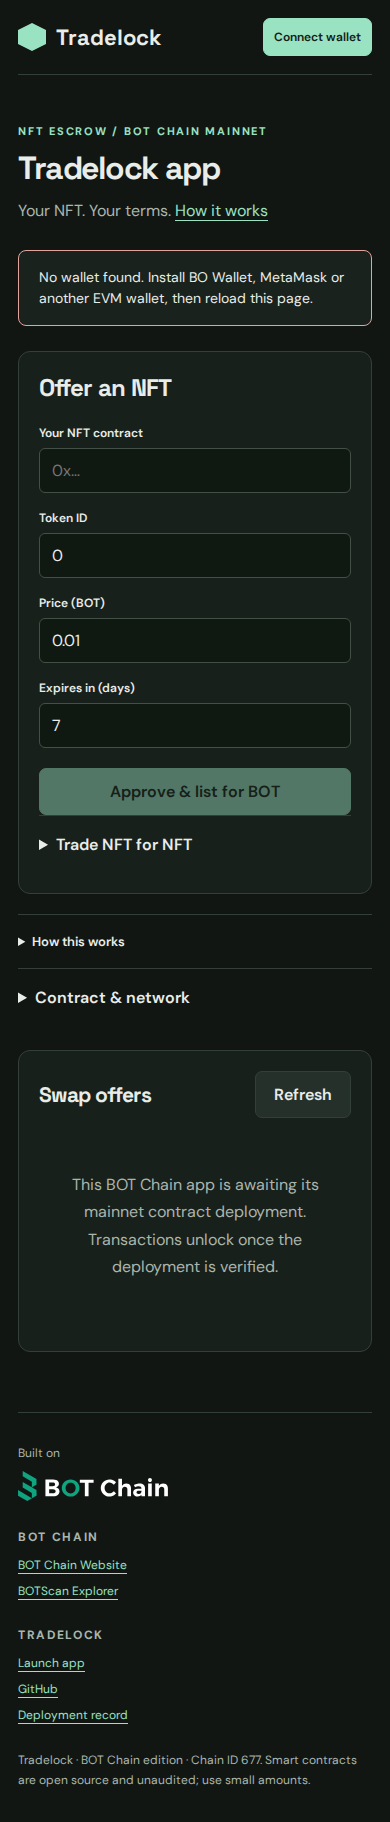
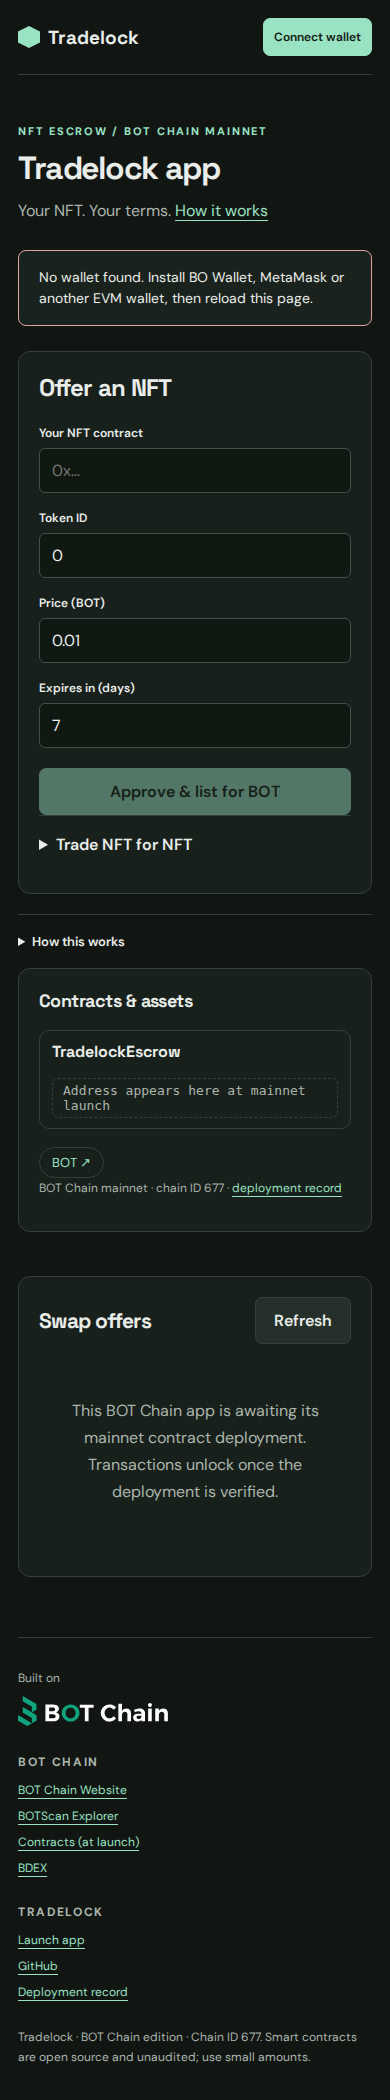
Move sites to Vercel; BOT Chain branding and linked contracts

diff --git a/web/landing.html b/web/landing.html
@@ -1,1 +1,1 @@
-<!doctype html><html lang="en"><head><meta charset="UTF-8"><meta name="viewport" content="width=device-width,initial-scale=1"><meta name="theme-color" content="#111613"><title>__NAME__ · BOT Chain</title><meta name="description" content="__DESCRIPTION__"><meta property="og:title" content="__NAME__ · BOT Chain"><meta property="og:description" content="__DESCRIPTION__"><meta property="og:type" content="website"><meta name="twitter:card" content="summary"><link rel="icon" href="/icon.svg" type="image/svg+xml"><link rel="stylesheet" href="/style.css"></head><body><a class="skip" href="#main">Skip to content</a><div class="shell"><header><a class="brand" href="/"><span class="mark" aria-hidden="true"></span>__NAME__</a><nav class="site-nav" aria-label="Page"><a href="#how">How it works</a><a href="#features">Features</a><a href="#faq">FAQ</a><a href="__REPO_URL__" target="_blank" rel="noopener noreferrer">GitHub</a></nav><div class="header-actions"><a class="button primary" href="/app/">Launch app</a></div></header><main id="main"><section class="hero"><div><span class="eyebrow">__EYEBROW__ / BOT CHAIN</span><h1>__LINE__</h1><p>__DESCRIPTION__</p><div class="cta-row"><a class="button primary" href="/app/">Launch app</a><a class="button" href="__REPO_URL__" target="_blank" rel="noopener noreferrer">View source</a></div></div><div class="hero-art" aria-hidden="true"><div class="art-grid"><span>01</span><span>02</span><span>03</span><span>04</span><span>__SYMBOL__</span><span>06</span><span>07</span><span>08</span><span>09</span></div></div></section>__LAUNCH__<section id="how" class="band"><span class="eyebrow">How it works</span><h2>Three steps, all onchain</h2><ol class="steps">__STEPS__</ol></section><section id="features" class="band"><span class="eyebrow">Features</span><h2>Why __NAME__</h2><div class="features">__FEATURES__</div></section><section id="onchain" class="band"><span class="eyebrow">Onchain</span><h2>Verify everything</h2><dl class="facts">__FACTS__</dl></section><section id="faq" class="band"><span class="eyebrow">FAQ</span><h2>Questions</h2><div class="faq">__FAQ__</div></section><section class="cta-band"><h2>__LINE__</h2><p>Connect BO Wallet, MetaMask or any EVM wallet on BOT Chain mainnet.</p><a class="button primary" href="/app/">Launch __NAME__</a></section></main>__FOOTER__</div></body></html>
+<!doctype html><html lang="en"><head><meta charset="UTF-8"><meta name="viewport" content="width=device-width,initial-scale=1"><meta name="theme-color" content="#111613"><title>__NAME__ · BOT Chain</title><meta name="description" content="__DESCRIPTION__"><meta property="og:title" content="__NAME__ · BOT Chain"><meta property="og:description" content="__DESCRIPTION__"><meta property="og:type" content="website"><meta name="twitter:card" content="summary"><link rel="icon" href="/icon.svg" type="image/svg+xml"><link rel="stylesheet" href="/style.css"></head><body><a class="skip" href="#main">Skip to content</a><div class="shell"><header><a class="brand" href="/"><span class="mark" aria-hidden="true"></span>__NAME__</a><nav class="site-nav" aria-label="Page"><a href="#how">How it works</a><a href="#features">Features</a><a href="#contracts">Contracts</a><a href="#faq">FAQ</a><a href="__REPO_URL__" target="_blank" rel="noopener noreferrer">GitHub</a></nav><div class="header-actions"><a class="chain-badge" href="https://www.botchain.ai/" target="_blank" rel="noopener noreferrer" aria-label="Built on BOT Chain"><span>Built on</span><img src="/botchain.svg" alt="BOT Chain" width="96" height="19"></a><a class="button primary" href="/app/">Launch app</a></div></header><main id="main"><section class="hero"><div><span class="eyebrow">__EYEBROW__ / BOT CHAIN</span><h1>__LINE__</h1><p>__DESCRIPTION__</p><div class="cta-row"><a class="button primary" href="/app/">Launch app</a><a class="button" href="__REPO_URL__" target="_blank" rel="noopener noreferrer">View source</a></div></div><div class="hero-art" aria-hidden="true"><div class="art-grid"><span>01</span><span>02</span><span>03</span><span>04</span><span>__SYMBOL__</span><span>06</span><span>07</span><span>08</span><span>09</span></div></div></section>__LAUNCH__<section id="how" class="band"><span class="eyebrow">How it works</span><h2>Three steps, all onchain</h2><ol class="steps">__STEPS__</ol></section><section id="features" class="band"><span class="eyebrow">Features</span><h2>Why __NAME__</h2><div class="features">__FEATURES__</div></section><section id="onchain" class="band"><span class="eyebrow">Onchain</span><h2>Verify everything</h2><dl class="facts">__FACTS__</dl></section><section id="contracts" class="band"><span class="eyebrow">Contracts &amp; BOT Chain assets</span><h2>Every address, on BOTScan</h2><p>Each link opens the contract or token on BOTScan, the BOT Chain explorer.</p><div class="contracts">__CONTRACTS__</div><h3 class="assets-title">BOT Chain assets used</h3><ul class="assets">__ASSETS__</ul></section><section id="faq" class="band"><span class="eyebrow">FAQ</span><h2>Questions</h2><div class="faq">__FAQ__</div></section><section class="cta-band"><h2>__LINE__</h2><p>Connect BO Wallet, MetaMask or any EVM wallet on BOT Chain mainnet.</p><a class="button primary" href="/app/">Launch __NAME__</a></section></main>__FOOTER__</div></body></html>

diff --git a/web/app.html b/web/app.html
@@ -1,1 +1,1 @@
-<!doctype html><html lang="en"><head><meta charset="UTF-8"><meta name="viewport" content="width=device-width,initial-scale=1"><meta name="theme-color" content="#111613"><title>__NAME__ App · BOT Chain</title><meta name="description" content="__DESCRIPTION__"><link rel="icon" href="/icon.svg" type="image/svg+xml"><link rel="stylesheet" href="/style.css"></head><body><a class="skip" href="#main">Skip to app</a><div class="shell"><header><a class="brand" href="/"><span class="mark" aria-hidden="true"></span>__NAME__</a><div class="header-actions"><span class="network">BOT Chain · 677</span><button id="add-chain" type="button">Add BOT Chain</button><button id="connect" type="button" class="primary">Connect wallet</button></div></header><main id="main"><section class="app-intro"><span class="eyebrow">__EYEBROW__ / BOT CHAIN MAINNET</span><h1>__NAME__ app</h1><p>__LINE__ <a href="/">How it works</a></p></section><div id="status" class="status" role="status" aria-live="polite">Checking deployment…</div><div id="workspace" class="layout"><aside><div id="controls" class="panel"></div><details class="rules"><summary>How this works</summary><div id="rules"></div></details><details><summary>Contract &amp; network</summary><div id="contract" class="record"></div></details></aside><section class="panel"><div class="section-head"><h2 id="list-title">Activity</h2><button id="refresh" type="button">Refresh</button></div><div id="records" aria-live="polite"><p class="empty">Loading onchain data…</p></div></section></div></main>__FOOTER__</div><dialog id="wallets" aria-labelledby="wallets-title"><form method="dialog"><h2 id="wallets-title">Choose a wallet</h2><p class="tiny">Any EVM wallet works on BOT Chain, including BO Wallet and MetaMask.</p><div id="wallet-list" class="wallet-list"></div><button value="cancel">Cancel</button></form></dialog><script type="module" src="/app.js"></script></body></html>
+<!doctype html><html lang="en"><head><meta charset="UTF-8"><meta name="viewport" content="width=device-width,initial-scale=1"><meta name="theme-color" content="#111613"><title>__NAME__ App · BOT Chain</title><meta name="description" content="__DESCRIPTION__"><link rel="icon" href="/icon.svg" type="image/svg+xml"><link rel="stylesheet" href="/style.css"></head><body><a class="skip" href="#main">Skip to app</a><div class="shell"><header><a class="brand" href="/"><span class="mark" aria-hidden="true"></span>__NAME__</a><div class="header-actions"><a class="chain-badge compact" href="https://www.botchain.ai/" target="_blank" rel="noopener noreferrer" aria-label="Built on BOT Chain"><span>Built on</span><img src="/botchain.svg" alt="BOT Chain" width="96" height="19"></a><button id="add-chain" type="button">Add BOT Chain</button><button id="connect" type="button" class="primary">Connect wallet</button></div></header><main id="main"><section class="app-intro"><span class="eyebrow">__EYEBROW__ / BOT CHAIN MAINNET</span><h1>__NAME__ app</h1><p>__LINE__ <a href="/">How it works</a></p></section><div id="status" class="status" role="status" aria-live="polite">Checking deployment…</div><div id="workspace" class="layout"><aside><div id="controls" class="panel"></div><details class="rules"><summary>How this works</summary><div id="rules"></div></details><div class="panel contracts-panel"><h2>Contracts &amp; assets</h2><div class="contracts">__CONTRACTS__</div><ul class="assets">__ASSETS__</ul><p class="tiny">BOT Chain mainnet · chain ID 677 · <a href="/deployment.json">deployment record</a></p></div></aside><section class="panel"><div class="section-head"><h2 id="list-title">Activity</h2><button id="refresh" type="button">Refresh</button></div><div id="records" aria-live="polite"><p class="empty">Loading onchain data…</p></div></section></div></main>__FOOTER__</div><dialog id="wallets" aria-labelledby="wallets-title"><form method="dialog"><h2 id="wallets-title">Choose a wallet</h2><p class="tiny">Any EVM wallet works on BOT Chain, including BO Wallet and MetaMask.</p><div id="wallet-list" class="wallet-list"></div><button value="cancel">Cancel</button></form></dialog><script type="module" src="/app.js"></script></body></html>

diff --git a/web/products/tradelock.js b/web/products/tradelock.js
@@ -1,4 +1,4 @@
-import {$,config,fmt,link,button,field,form,details,address,amount,integer,read,tx,approveNFT,mine,chainTime,start} from '../core.js';
+import {$,config,fmt,link,button,field,form,details,address,amount,integer,read,tx,approveNFT,mine,chainTime,asset,start} from '../core.js';
 function controls(){
  $('list-title').textContent='Swap offers';
  $('controls').innerHTML='<h2>Offer an NFT</h2>'+form('nft-offer',field('nft','Your NFT contract','','text','placeholder="0x…"')+field('token-id','Token ID','0','text','inputmode="numeric"')+field('price','Price (BOT)','0.01','text','inputmode="decimal"')+field('expiry','Expires in (days)','7','number','min="1" max="365"'),'Approve & list for BOT',async f=>{const nft=address(f.nft),id=integer(f['token-id']);await approveNFT(nft,id,config.contracts.TradelockEscrow);await tx('TradelockEscrow','createNftToTokenSwap',[nft,id,amount(f.price),BigInt(Number(f.expiry)*86400)]);})+details('Trade NFT for NFT',form('nft-swap',field('offered','Your NFT contract','','text','placeholder="0x…"')+field('offered-id','Your token ID','0')+field('wanted','Wanted NFT contract','','text','placeholder="0x…"')+field('wanted-id','Wanted token ID','0'),'Approve & offer swap',async f=>{const nft=address(f.offered),id=integer(f['offered-id']);await approveNFT(nft,id,config.contracts.TradelockEscrow);await tx('TradelockEscrow','createNftToNftSwap',[nft,id,address(f.wanted),integer(f['wanted-id']),604800n]);}));
@@ -7,7 +7,7 @@ function controls(){
 async function render(){
  const count=Number(await read('TradelockEscrow','getSwapCount'));const nowMs=await chainTime()*1000;let html='';
  for(let id=count-1;id>=Math.max(0,count-30);id--){const s=await read('TradelockEscrow','getSwap',[BigInt(id)]);const active=s.status===0,expired=Number(s.expiresAt)*1000<=nowMs,own=mine(s.creator);
-  html+=`<article class="item"><div class="section-head"><h3>NFT #${s.offerNftId}</h3><span class="badge">${['Active','Completed','Cancelled','Expired'][s.status]}</span></div><p>${link(s.offerNftContract,'View NFT collection')} · Seller ${link(s.creator)}</p><div class="amount">${s.swapType===1?`${fmt(s.wantedTokenAmount)} BOT`:`NFT #${s.wantedNftId}`}</div>${s.swapType===0?`<p>Wanted collection: ${link(s.wantedNftContract)}</p>`:''}<p class="tiny">Expires ${new Date(Number(s.expiresAt)*1000).toLocaleString()}</p><div class="actions">`;
+  html+=`<article class="item"><div class="section-head"><h3>NFT #${s.offerNftId}</h3><span class="badge">${['Active','Completed','Cancelled','Expired'][s.status]}</span></div><p>${link(s.offerNftContract,'View NFT collection')} · Seller ${link(s.creator)}</p><div class="amount">${s.swapType===1?`${fmt(s.wantedTokenAmount)} ${asset('BOT')}`:`NFT #${s.wantedNftId}`}</div>${s.swapType===0?`<p>Wanted collection: ${link(s.wantedNftContract)}</p>`:''}<p class="tiny">Expires ${new Date(Number(s.expiresAt)*1000).toLocaleString()}</p><div class="actions">`;
   if(active&&own)html+=button('Cancel & return NFT',()=>tx('TradelockEscrow','cancelSwap',[BigInt(id)]));
   if(active&&expired)html+=button('Return expired NFT',()=>tx('TradelockEscrow','expireSwap',[BigInt(id)]));
   if(active&&!expired&&!own)html+=button(s.swapType===1?'Buy NFT':'Approve & swap',async()=>{if(s.swapType===1)await tx('TradelockEscrow','acceptNftToTokenSwap',[BigInt(id)],s.wantedTokenAmount);else{await approveNFT(s.wantedNftContract,s.wantedNftId,config.contracts.TradelockEscrow);await tx('TradelockEscrow','acceptNftToNftSwap',[BigInt(id)]);}},true);

diff --git a/web/core.js b/web/core.js
@@ -72,6 +72,8 @@ export const tx=(name,fn,args=[],value=0n,addr=config.contracts[name])=>transact
 export async function approve(token,spender,n){await wallet();const allowed=await client.readContract({address:token,abi:tokenAbi,functionName:'allowance',args:[state.account,spender]});if(allowed<n){if(allowed>0n)await transact(tokenAbi,token,'approve',[spender,0n]);await transact(tokenAbi,token,'approve',[spender,n]);}}
 export async function approveNFT(token,id,spender){await wallet();if((await client.readContract({address:token,abi:tokenAbi,functionName:'getApproved',args:[id]})).toLowerCase()!==spender.toLowerCase())await transact(nftAbi,token,'approve',[spender,id]);}
 export const wrapForms=()=>details('Wrap or unwrap BOT',form('wrap',field('wrap-amount','BOT to wrap','0.01','text','inputmode="decimal"'),'Wrap BOT',async f=>transact(tokenAbi,config.infrastructure.WBOT,'deposit',[],amount(f['wrap-amount'])))+form('unwrap',field('unwrap-amount','WBOT to unwrap','0.01','text','inputmode="decimal"'),'Unwrap WBOT',async f=>transact(tokenAbi,config.infrastructure.WBOT,'withdraw',[amount(f['unwrap-amount'])])));
+/** A BOT Chain asset symbol, linked to its BOTScan token page (BOT links to BOT Chain). Unknown symbols stay plain text. */
+export const asset=(symbol,address)=>{const k=String(symbol).toUpperCase(),a=config.assetLinks?.[k];const href=a?.href||(address?`https://scan.botchain.ai/token/${address}`:null);return href?`<a class="asset" href="${esc(href)}" target="_blank" rel="noopener noreferrer" title="${esc(a?.name||symbol)} on BOT Chain">${esc(symbol)}</a>`:esc(symbol);};
 export const mine=a=>!!state.account&&a?.toLowerCase()===state.account.toLowerCase();
 
 let product;
@@ -95,6 +97,5 @@ export function start(p){
  document.addEventListener('submit',e=>{if(!e.target.dataset.form)return;e.preventDefault();const f=e.target;run(()=>actions.get(f.dataset.form)(Object.fromEntries(new FormData(f))));});
  $('connect').onclick=()=>run(connect);$('add-chain').onclick=()=>run(addChain);$('refresh').onclick=()=>run(state.verified?refresh:boot);
  product.controls();
- $('contract').innerHTML=`<p>BOT Chain mainnet · Chain ID 677</p><p>${config.contracts[config.contract]?link(config.contracts[config.contract],'View app contract on BOTScan'):'Contract deployment pending'}</p><p><a href="/deployment.json">Public deployment record</a></p>`;
  boot();
 }

diff --git a/web/style.css b/web/style.css
@@ -50,3 +50,21 @@ dialog form>button{width:100%}
 .weights legend{font-size:12px;font-weight:600;padding:0 6px}
 .tiny.error{color:#e2a49c}
 .holdings{margin:6px 0 10px}
+
+.chain-badge{display:inline-flex;align-items:center;gap:8px;text-decoration:none;color:var(--muted);font-size:12px;border:1px solid var(--line);border-radius:999px;padding:7px 12px;background:#18201b}
+.chain-badge:hover{border-color:#10A37F}
+.chain-badge img{height:15px;width:auto}
+.contracts{display:grid;gap:10px;margin:18px 0}
+.contract{display:flex;justify-content:space-between;align-items:center;gap:16px;flex-wrap:wrap;border:1px solid var(--line);border-radius:10px;padding:14px 18px;background:#18201b}
+.contract strong{font-family:'Space Grotesk',sans-serif}
+.contract a,.contract .pending{font-family:ui-monospace,SFMono-Regular,Menlo,monospace;font-size:13px;overflow-wrap:anywhere}
+.contract .pending{color:var(--muted);border:1px dashed var(--line);border-radius:6px;padding:4px 10px}
+.assets-title{margin-top:26px}
+.assets{list-style:none;padding:0;margin:10px 0 0;display:flex;flex-wrap:wrap;gap:8px}
+.assets a{display:inline-flex;gap:6px;align-items:center;border:1px solid var(--line);border-radius:999px;padding:6px 12px;font-size:13px;text-decoration:none}
+.assets a:hover{border-color:var(--accent)}
+.contracts-panel h2{font-size:18px;margin-bottom:6px}
+.contracts-panel .contract{padding:10px 12px}
+a.asset{text-decoration-thickness:1px}
+@media(max-width:760px){.chain-badge span{display:none}.chain-badge.compact{display:none}}
+@media(max-width:480px){header{gap:10px}.header-actions{gap:6px}.chain-badge{padding:6px 8px}.chain-badge img{height:12px}.header-actions a.button{padding:9px 11px;font-size:13px}.brand{font-size:19px;gap:8px}.mark{width:22px;height:22px}}

diff --git a/README.md b/README.md
@@ -4,7 +4,7 @@
 
 **Status:** contracts are tested on a BOT Chain mainnet fork; the mainnet deployment is pending.
 
-- Website and app: https://tradelock-botchain.davidopuene8.workers.dev (app at [`/app/`](https://tradelock-botchain.davidopuene8.workers.dev/app/))
+- Website and app: https://tradelockbot.vercel.app (app at [`/app/`](https://tradelockbot.vercel.app/app/))
 - Network: BOT Chain mainnet, chain ID 677 · [BOT Chain](https://www.botchain.ai/) · [BOTScan](https://scan.botchain.ai/)
 
 ![Tradelock landing page](docs/tradelock-landing-1280.png)
@@ -61,7 +61,7 @@ node scripts/deploy.mjs && node scripts/fork-check.mjs
 
 ### Deploy
 
-`scripts/deploy.mjs` reads the deployer key from `BOT_SIGNER_FILE` (default `~/.config/botchain-wave1/deployer.env`, never committed), refuses to broadcast on mainnet without `BOT_MAX_GAS_BOT`, and journals every transaction to `deployments/mainnet.json` so it can resume. `python3 scripts/publish.py` publishes the site with a one-hour, Workers-only Cloudflare token and revokes it afterwards.
+`scripts/deploy.mjs` reads the deployer key from `BOT_SIGNER_FILE` (default `~/.config/botchain-wave1/deployer.env`, never committed), refuses to broadcast on mainnet without `BOT_MAX_GAS_BOT`, and journals every transaction to `deployments/mainnet.json` so it can resume. `npm run publish` deploys the built site to Vercel as a static production deployment.
 
 ## License
 
